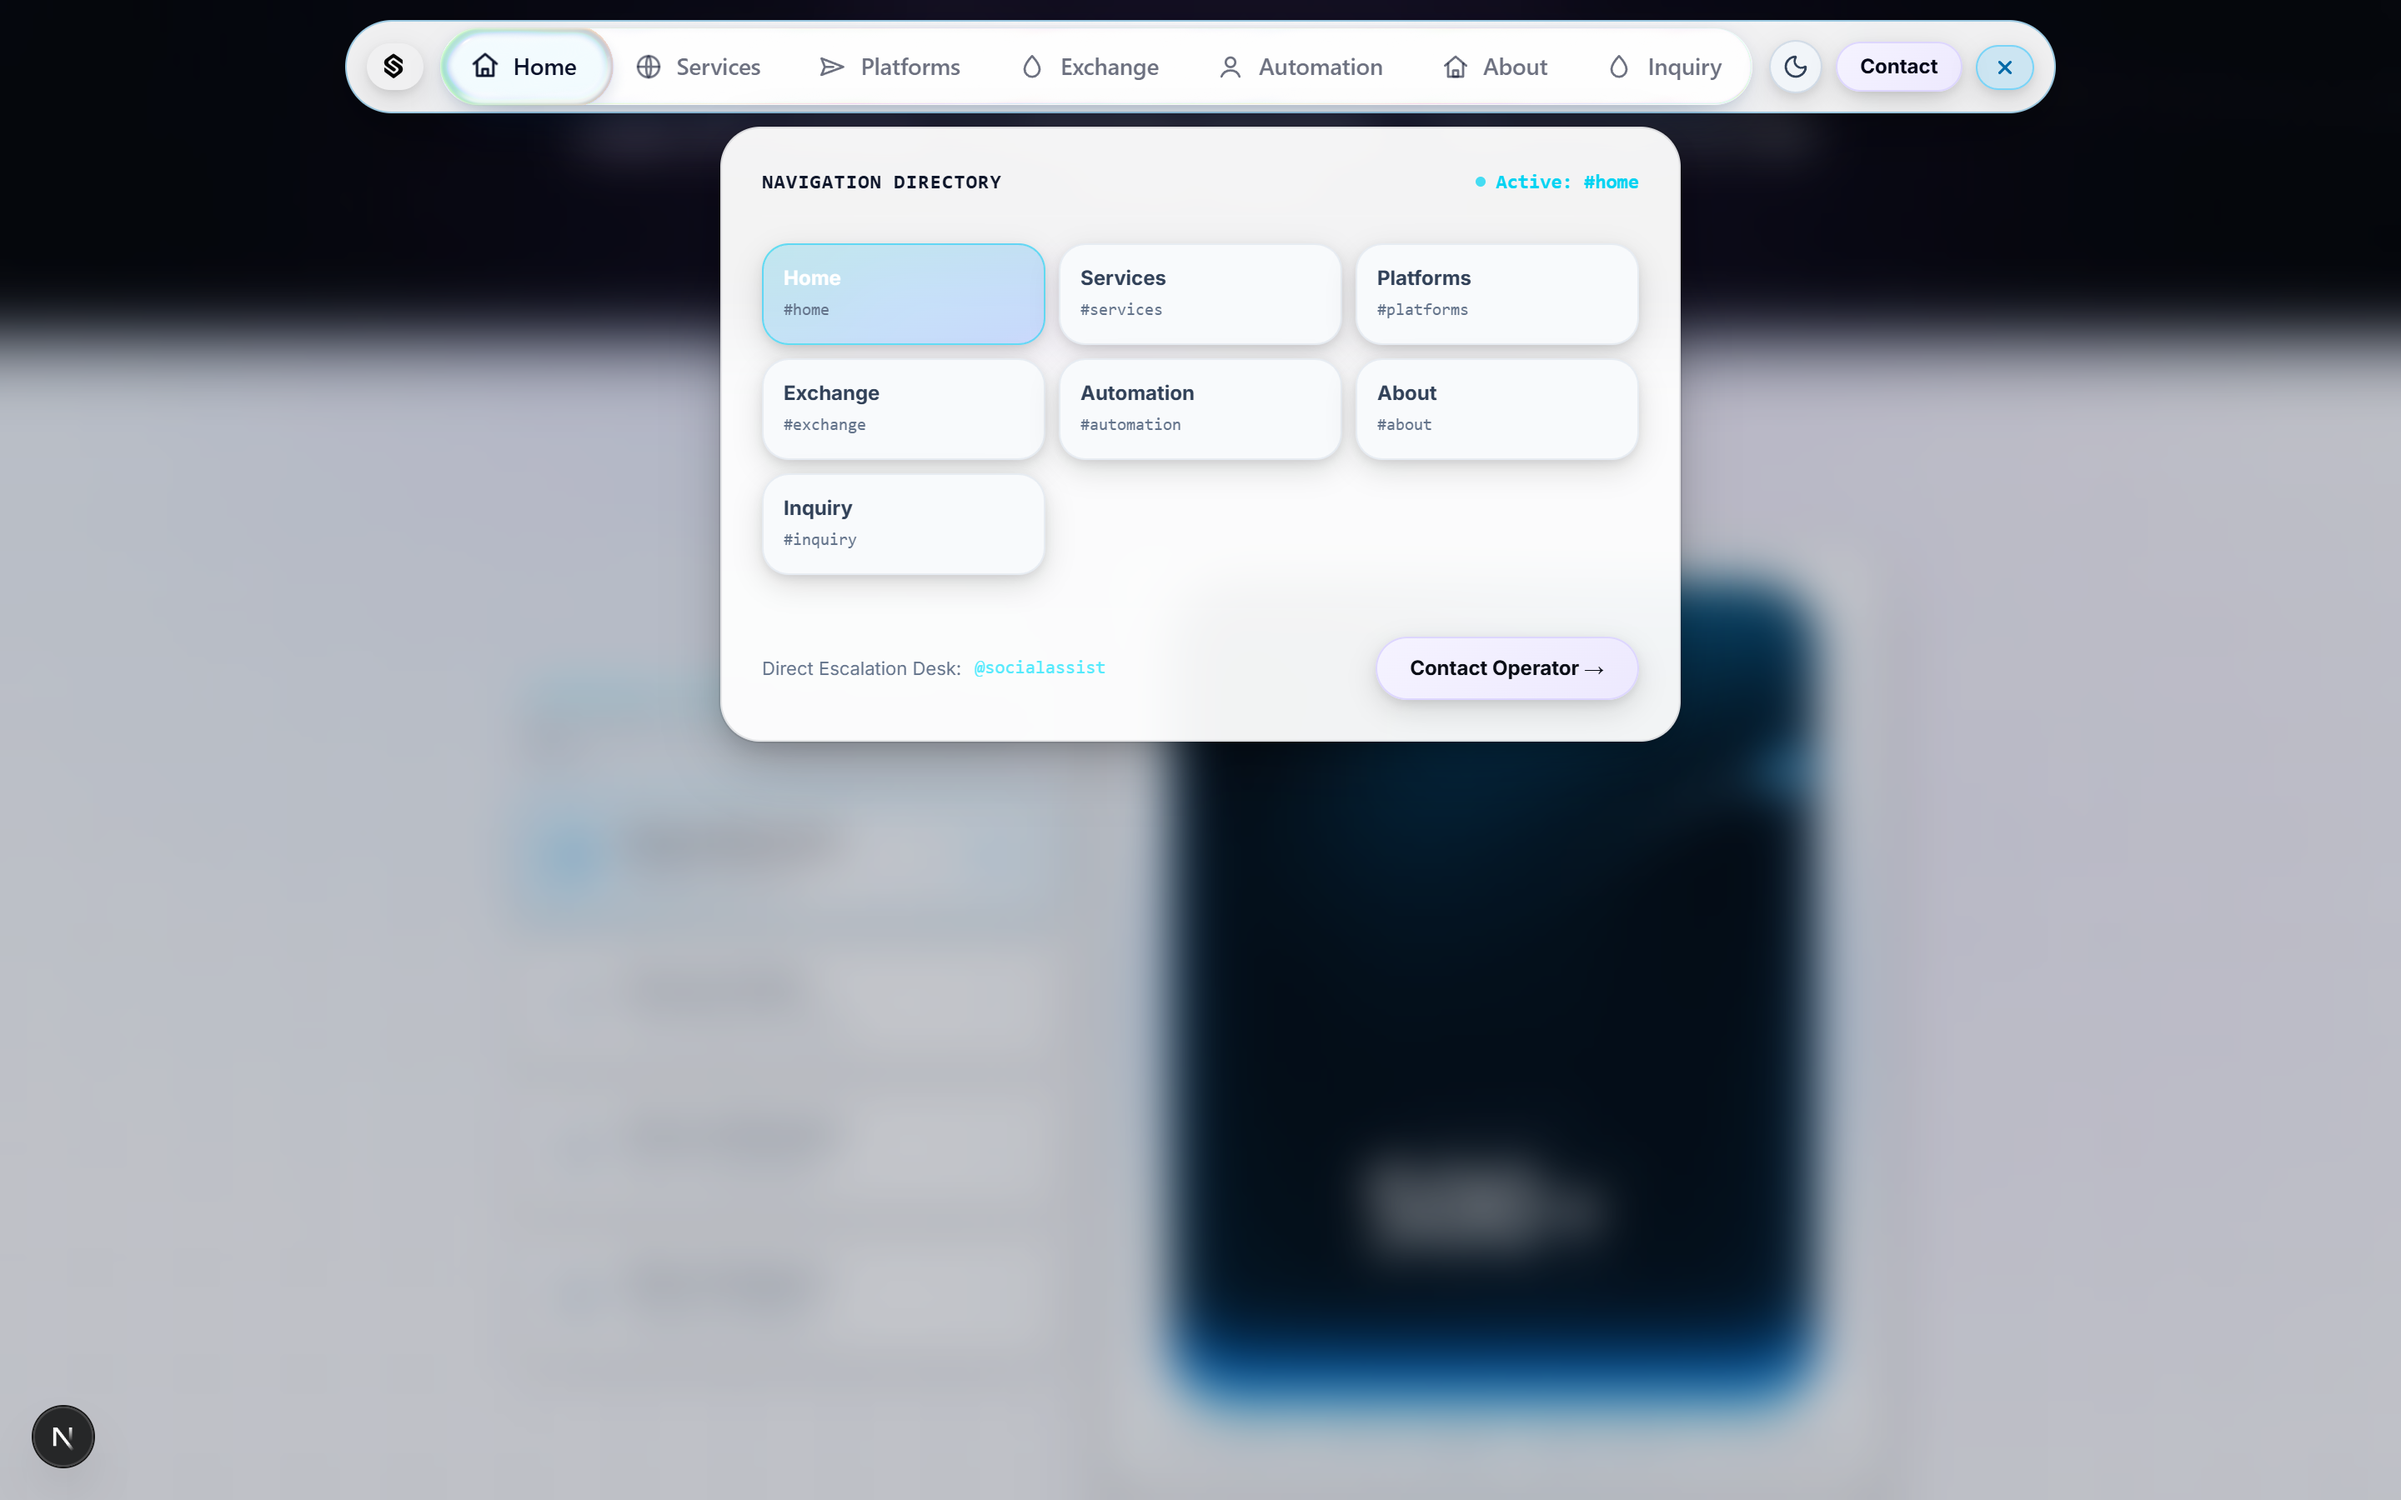
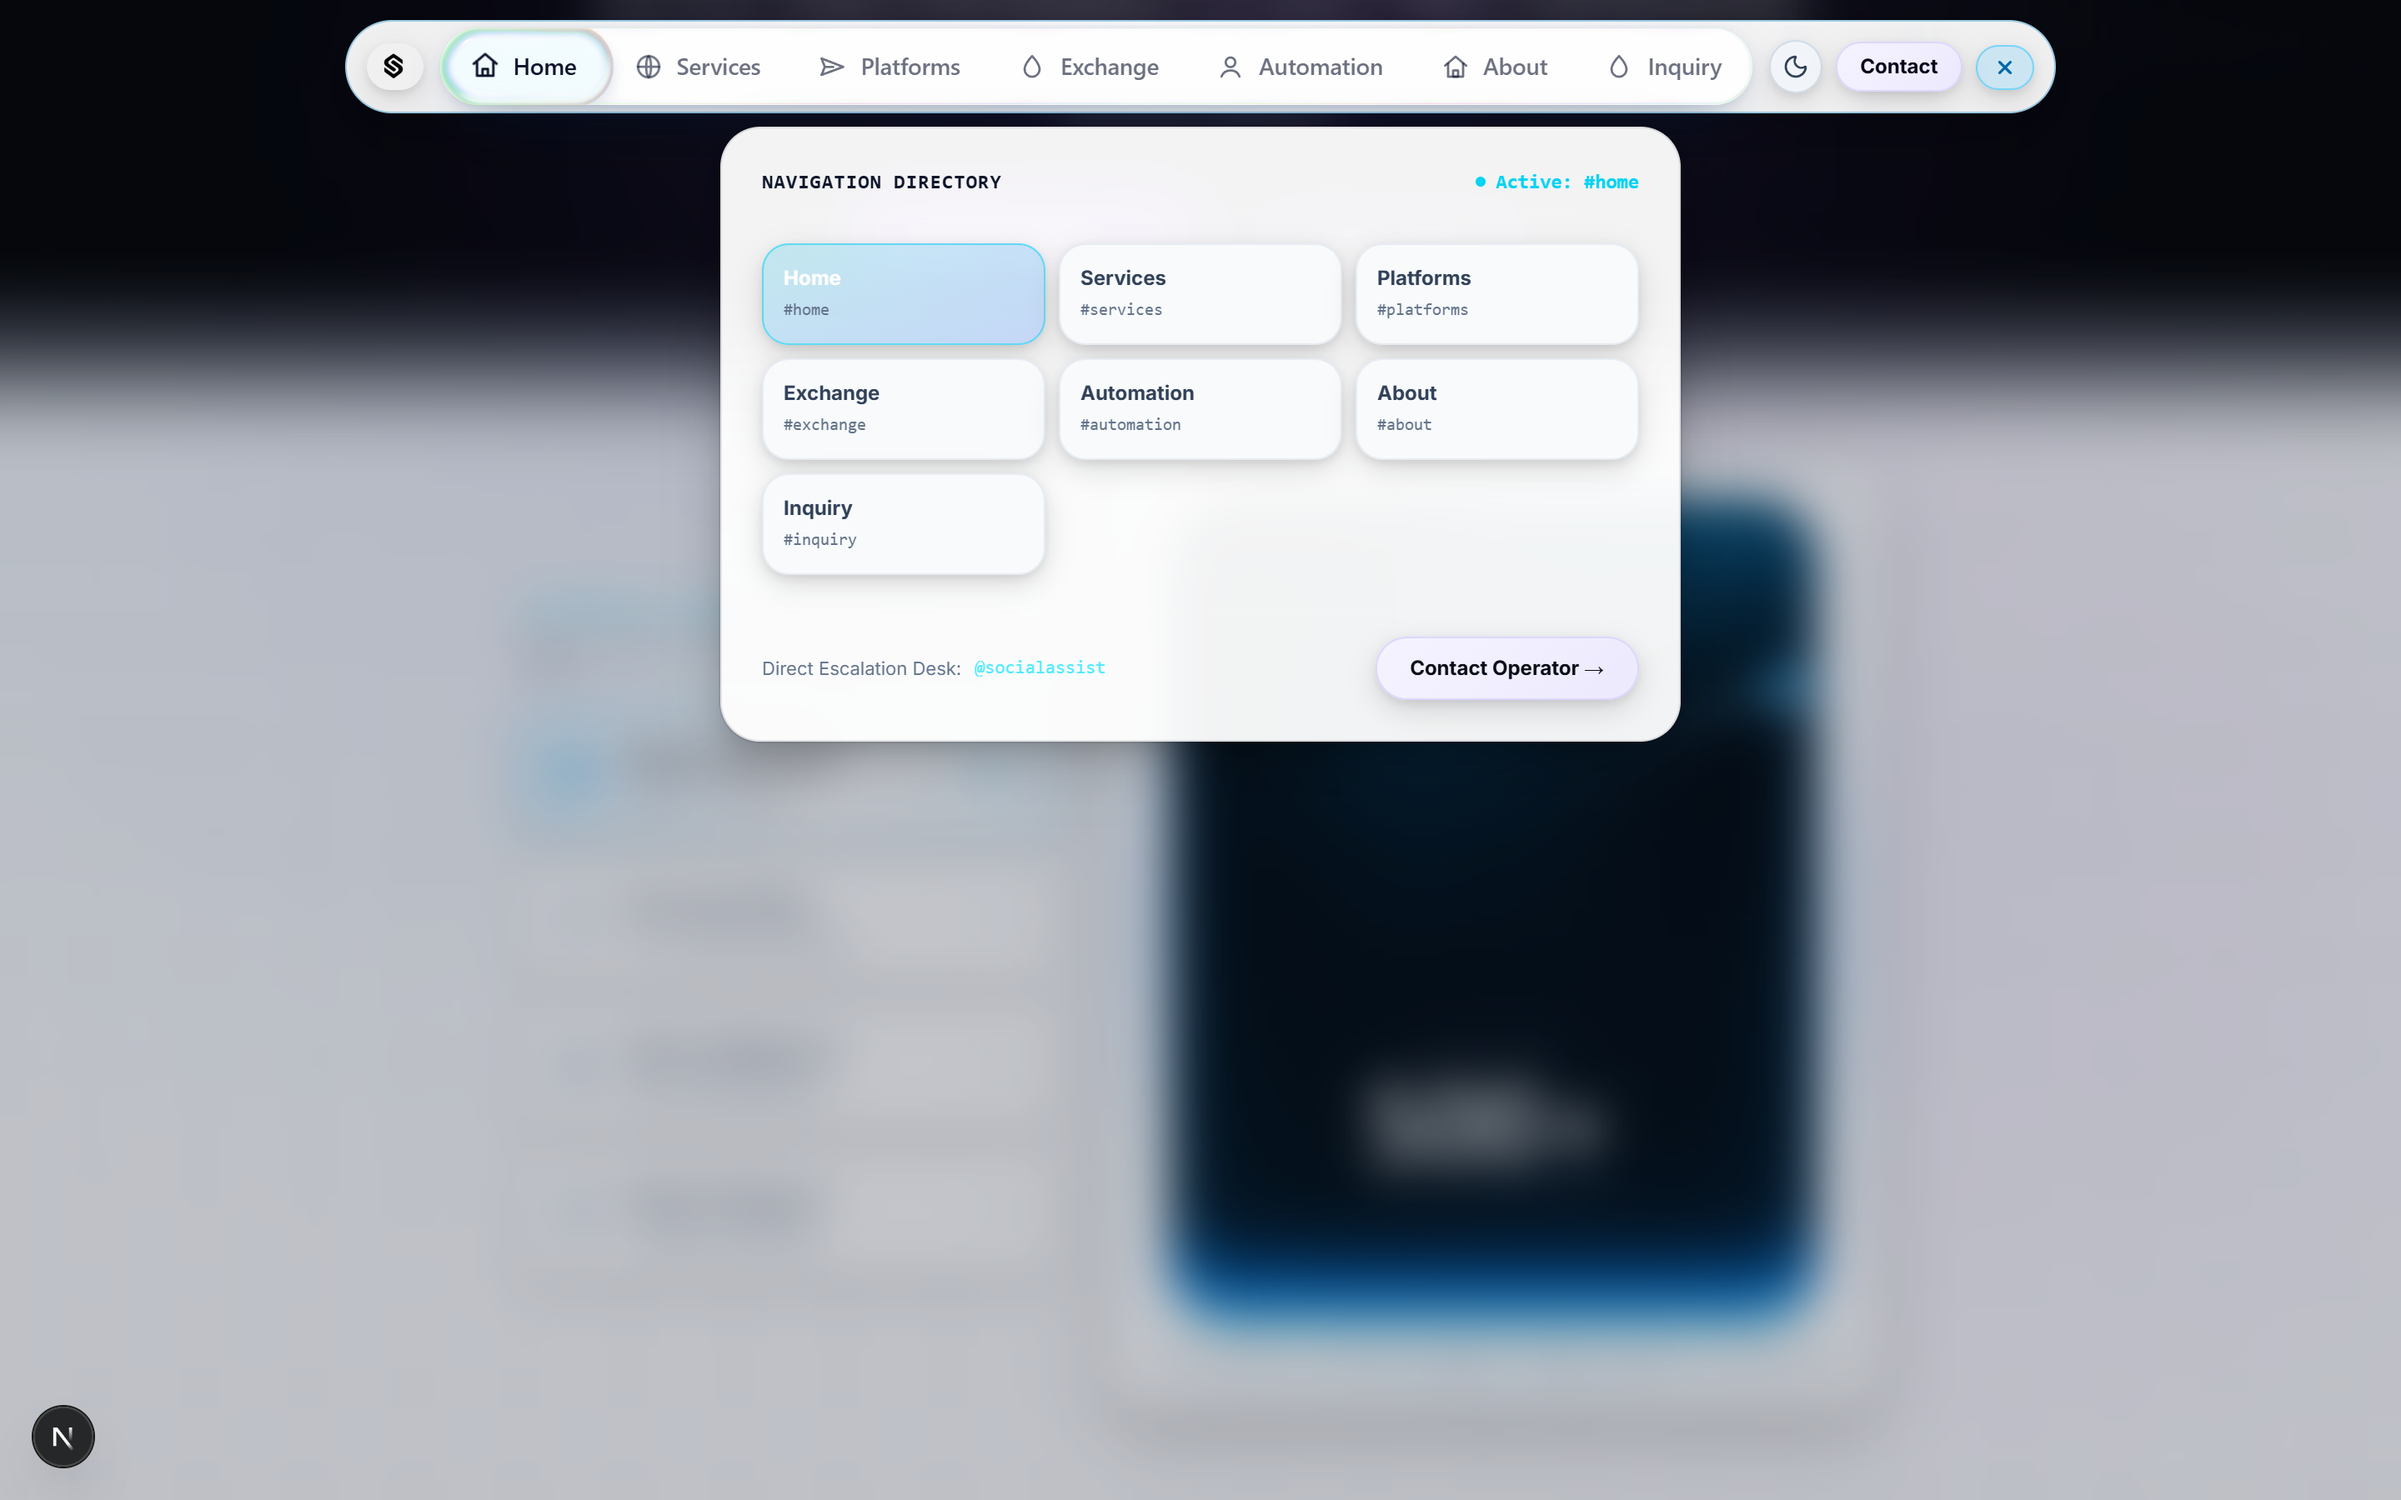
feat: stretch black wave mesh downward with extended chromatic blend and layered blurs

diff --git a/src/components/sections/HeroSection.tsx b/src/components/sections/HeroSection.tsx
@@ -32,15 +32,15 @@ export default function HeroSection() {
     >
       {/* ── Top Hero Wave Mesh (Pure Dark Black with Violet/Purple Accents) ── */}
       <div
-        className="absolute top-0 inset-x-0 h-[660px] sm:h-[685px] md:h-[705px] overflow-hidden pointer-events-auto z-0"
+        className="absolute top-0 inset-x-0 h-[740px] sm:h-[765px] md:h-[790px] overflow-hidden pointer-events-auto z-0"
         style={{
           background: "#000000",
           maskImage: isLight
-            ? "linear-gradient(to bottom, #000000 0%, #000000 calc(100% - 60px), rgba(0,0,0,0.5) calc(100% - 24px), transparent 100%)"
-            : "linear-gradient(to bottom, #000000 0%, #000000 calc(100% - 60px), rgba(0,0,0,0.5) calc(100% - 24px), transparent 100%)",
+            ? "linear-gradient(to bottom, #000000 0%, #000000 calc(100% - 110px), rgba(0,0,0,0.65) calc(100% - 55px), rgba(0,0,0,0.2) calc(100% - 15px), transparent 100%)"
+            : "linear-gradient(to bottom, #000000 0%, #000000 calc(100% - 90px), rgba(0,0,0,0.5) calc(100% - 30px), transparent 100%)",
           WebkitMaskImage: isLight
-            ? "linear-gradient(to bottom, #000000 0%, #000000 calc(100% - 60px), rgba(0,0,0,0.5) calc(100% - 24px), transparent 100%)"
-            : "linear-gradient(to bottom, #000000 0%, #000000 calc(100% - 60px), rgba(0,0,0,0.5) calc(100% - 24px), transparent 100%)",
+            ? "linear-gradient(to bottom, #000000 0%, #000000 calc(100% - 110px), rgba(0,0,0,0.65) calc(100% - 55px), rgba(0,0,0,0.2) calc(100% - 15px), transparent 100%)"
+            : "linear-gradient(to bottom, #000000 0%, #000000 calc(100% - 90px), rgba(0,0,0,0.5) calc(100% - 30px), transparent 100%)",
         }}
       >
         <WaveMesh
@@ -51,34 +51,35 @@ export default function HeroSection() {
 
         {/* Graduated Chromatic Merge: Solid Black -> Dark Grey -> Neutral Grey -> Light Grey -> White with Layered Diffusion Blurs */}
         <div
-          className="absolute inset-x-0 bottom-0 h-16 pointer-events-none"
+          className="absolute inset-x-0 bottom-0 h-28 pointer-events-none"
           style={{
             background: isLight
               ? `linear-gradient(
                   to bottom,
                   rgba(0, 0, 0, 0) 0%,
-                  rgba(15, 18, 25, 0.75) 18%,
-                  rgba(35, 42, 58, 0.6) 36%,
-                  rgba(75, 88, 110, 0.5) 54%,
-                  rgba(148, 163, 184, 0.65) 72%,
-                  rgba(226, 232, 240, 0.88) 88%,
+                  rgba(8, 10, 16, 0.78) 20%,
+                  rgba(22, 28, 40, 0.6) 40%,
+                  rgba(55, 68, 90, 0.42) 60%,
+                  rgba(148, 163, 184, 0.35) 78%,
+                  rgba(226, 232, 240, 0.65) 90%,
+                  rgba(255, 255, 255, 0.95) 97%,
                   #ffffff 100%
                 )`
               : "linear-gradient(to bottom, rgba(0,0,0,0) 0%, rgba(3,7,18,0.4) 30%, rgba(3,7,18,0.85) 70%, #030712 100%)",
-            backdropFilter: "blur(16px)",
-            WebkitBackdropFilter: "blur(16px)",
+            backdropFilter: "blur(20px)",
+            WebkitBackdropFilter: "blur(20px)",
           }}
         />
 
         {/* Ethereal Optical Smoothing Layer: Ultra-Soft Secondary Blur */}
         <div
-          className="absolute inset-x-0 bottom-0 h-10 pointer-events-none"
+          className="absolute inset-x-0 bottom-0 h-16 pointer-events-none"
           style={{
             background: isLight
-              ? "linear-gradient(to bottom, transparent 0%, rgba(226, 232, 240, 0.3) 50%, rgba(255, 255, 255, 0.95) 100%)"
+              ? "linear-gradient(to bottom, transparent 0%, rgba(226, 232, 240, 0.2) 45%, rgba(255, 255, 255, 0.92) 100%)"
               : "transparent",
-            backdropFilter: "blur(22px)",
-            WebkitBackdropFilter: "blur(22px)",
+            backdropFilter: "blur(28px)",
+            WebkitBackdropFilter: "blur(28px)",
           }}
         />
       </div>

diff --git a/src/components/HeroArchitecturalGrid.tsx b/src/components/HeroArchitecturalGrid.tsx
@@ -12,10 +12,10 @@ export default function HeroArchitecturalGrid() {
       className="absolute inset-0 pointer-events-none z-0 overflow-hidden"
       style={{
         maskImage: isLight
-          ? "linear-gradient(to bottom, transparent 0%, transparent 640px, rgba(0,0,0,0.5) 680px, rgba(0,0,0,1) 740px, rgba(0,0,0,0.5) 85%, transparent 100%)"
+          ? "linear-gradient(to bottom, transparent 0%, transparent 690px, rgba(0,0,0,0.4) 735px, rgba(0,0,0,1) 785px, rgba(0,0,0,0.5) 88%, transparent 100%)"
           : "linear-gradient(to bottom, rgba(0,0,0,1) 0%, rgba(0,0,0,0.65) 50%, rgba(0,0,0,0.15) 80%, transparent 100%)",
         WebkitMaskImage: isLight
-          ? "linear-gradient(to bottom, transparent 0%, transparent 640px, rgba(0,0,0,0.5) 680px, rgba(0,0,0,1) 740px, rgba(0,0,0,0.5) 85%, transparent 100%)"
+          ? "linear-gradient(to bottom, transparent 0%, transparent 690px, rgba(0,0,0,0.4) 735px, rgba(0,0,0,1) 785px, rgba(0,0,0,0.5) 88%, transparent 100%)"
           : "linear-gradient(to bottom, rgba(0,0,0,1) 0%, rgba(0,0,0,0.65) 50%, rgba(0,0,0,0.15) 80%, transparent 100%)",
       }}
     >
